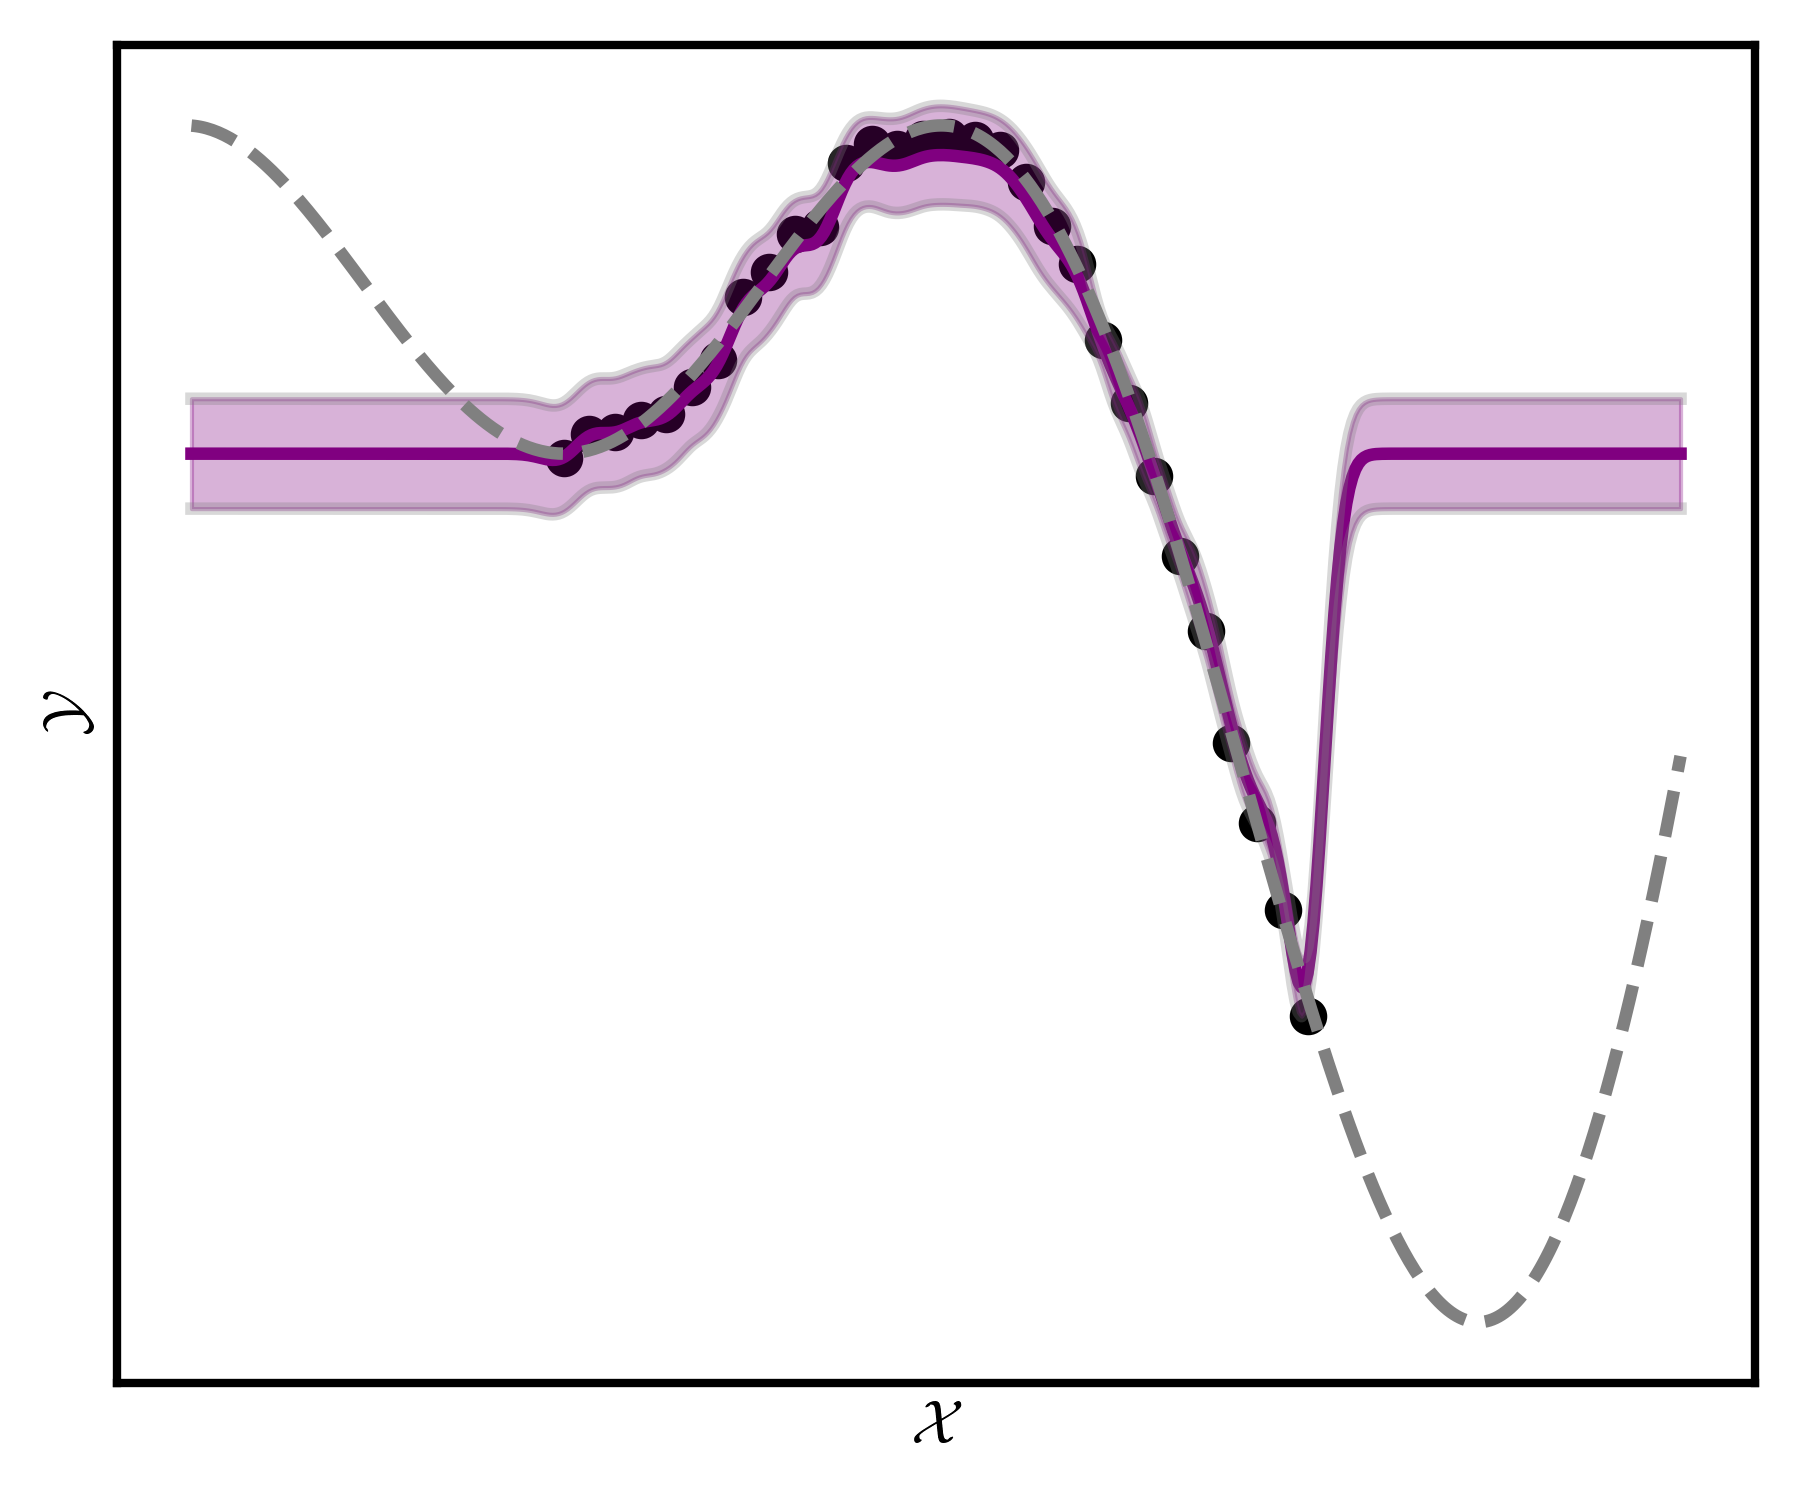
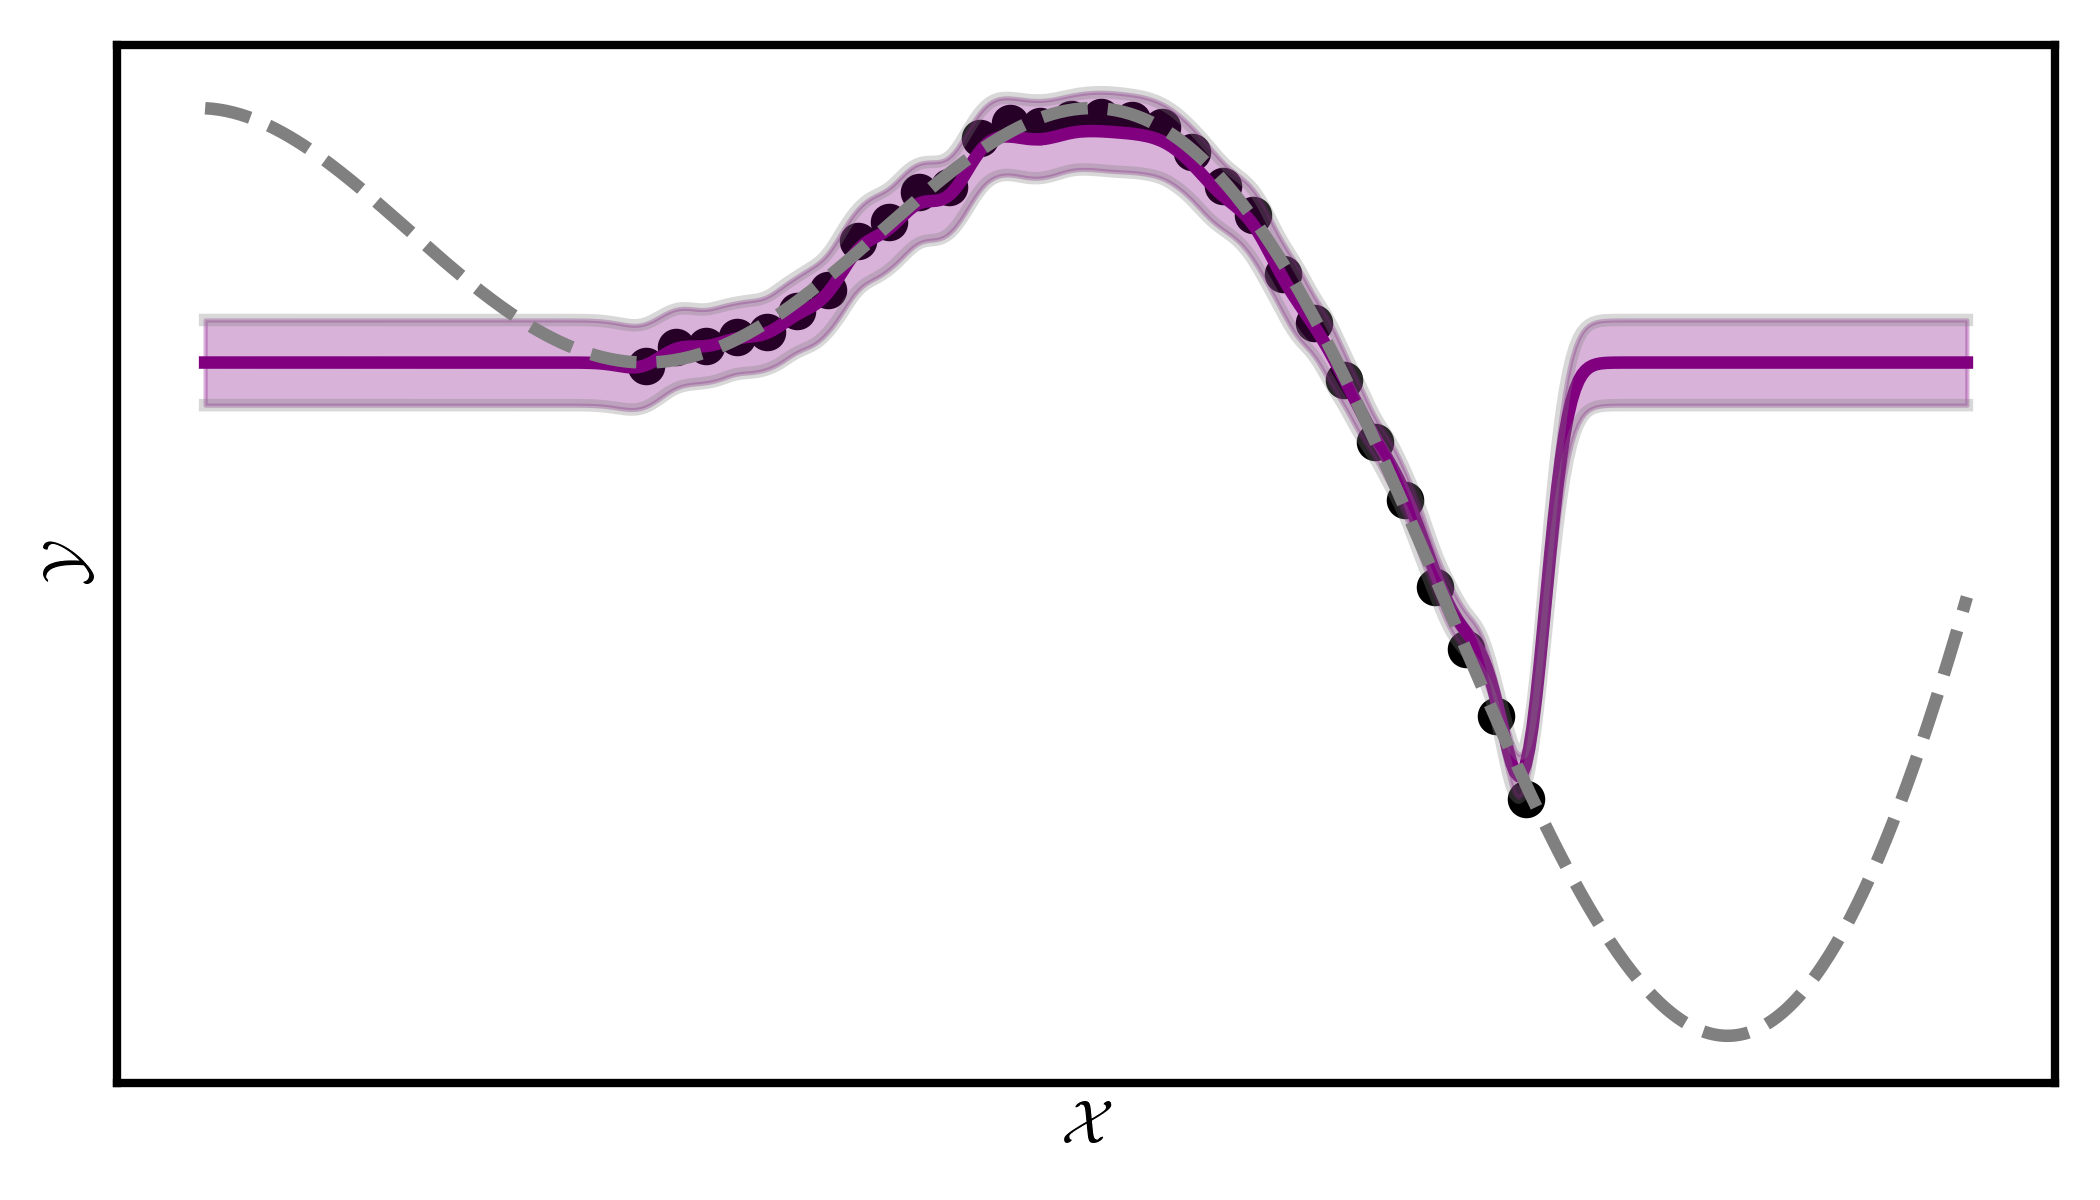
removed __call__ function in kernel base class

Changed region(s): [[0.0, 0.0, 0.9956, 0.9558], [0.9022, 0.5242, 0.9333, 0.6783], [0.8711, 0.6783, 0.9022, 0.8017]]

diff --git a/src/kernels/kernel.py b/src/kernels/kernel.py
@@ -14,26 +14,6 @@ class Kernel(ABC):
         else:
             self.bounds = bounds
 
-    # def __call__(self, X1, X2=None, eval_gradient=False):
-    #
-    #     if X2 is None:
-    #         X2 = X1.copy()
-    #
-    #     # Covariance matrix
-    #     K_ = np.array([[self.k(x1, x2) for x2 in X2] for x1 in X1])
-    #
-    #     if eval_gradient:
-    #         dK = np.zeros((len(self.theta), len(X1), len(X2)))
-    #         for i, x1 in enumerate(X1):
-    #             for j, x2 in enumerate(X2):
-    #                 _, dk_ = self.k(x1, x2, eval_gradient=True)
-    #                 for k in range(len(self.theta)):
-    #                     dK[k, i, j] = dk_[k]
-    #
-    #         return K_, dK  # return covariance matrix and its gradient
-    #     else:
-    #         return K_  # only return covariance matrix
-
     @abstractmethod
     def __call__(self, X1, X2=None, eval_gradient=False):
         """abstract method for __call__ """

diff --git a/src/gpr/gaussian_process.py b/src/gpr/gaussian_process.py
@@ -285,7 +285,7 @@ class GP:
             ax1 = fig.add_subplot(121)
             ax2 = fig.add_subplot(122)
         else:
-            fig = plt.figure(figsize=(6, 5))
+            fig = plt.figure(figsize=(7, 4))
             ax1 = fig.add_subplot(111)
 
         # Always plot the posterior
